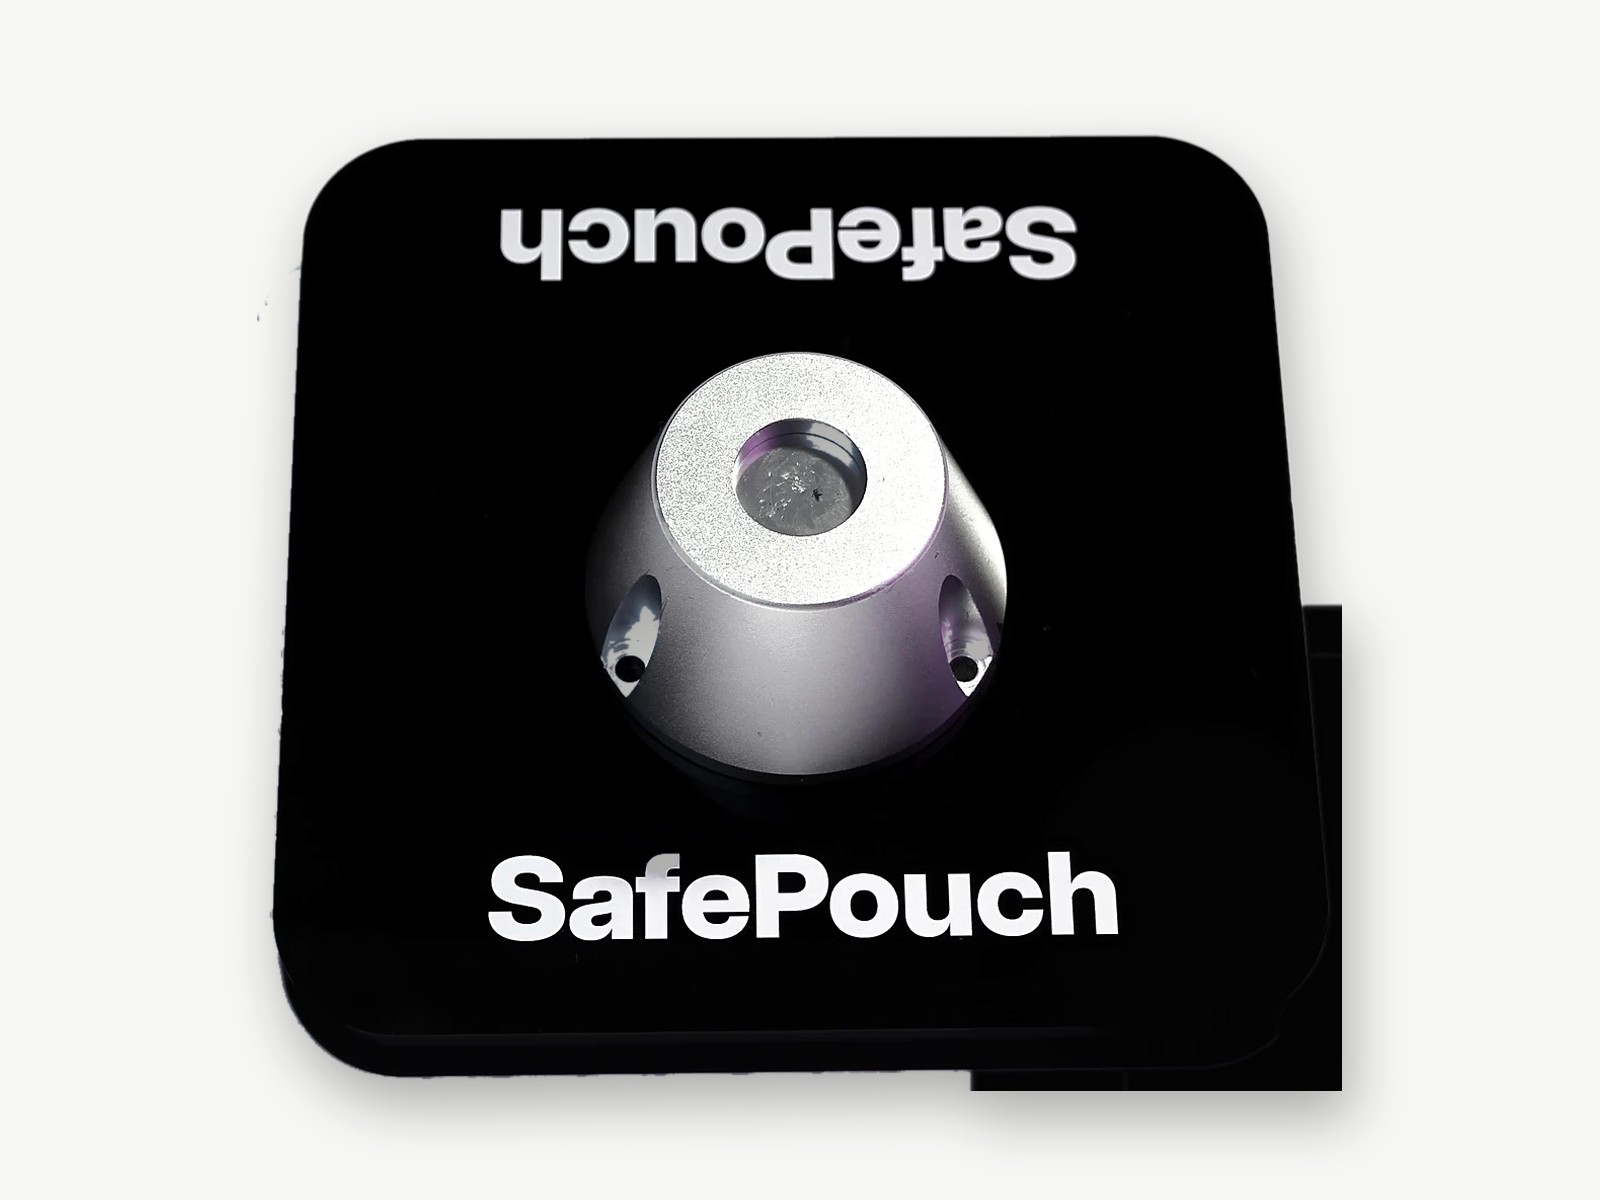
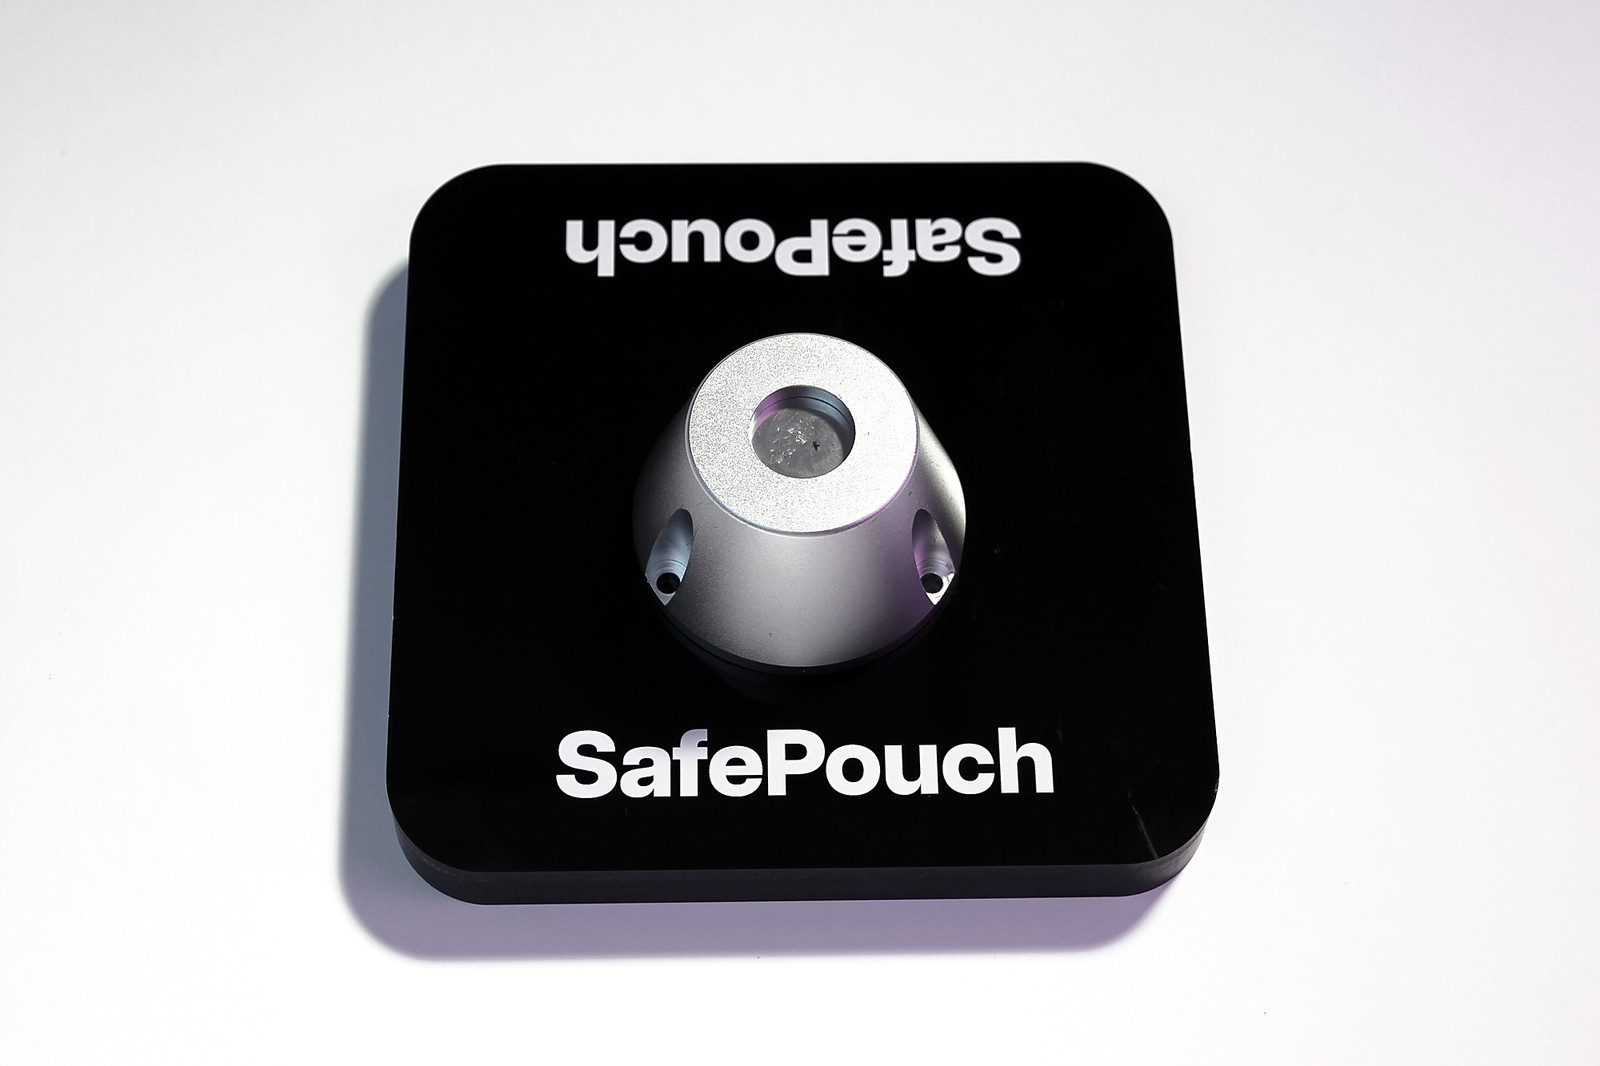
Opens on the base: use the raw studio base photo as-is
Drop in unlock-base-angled.jpg unedited (resize only, no cutout/compositing);
frame set to 3:2 so the full photo shows with no cropping.

diff --git a/index.html b/index.html
@@ -813,7 +813,7 @@
 
       <!-- Feature: opens on the base -->
       <div class="reveal mt-16 md:mt-24 grid lg:grid-cols-2 gap-8 lg:gap-12 items-center">
-        <div class="product-shot aspect-[4/3]">
+        <div class="product-shot aspect-[3/2]">
           <img src="images/base-framed.jpg" alt="The SafePouch magnetic unlock base" loading="lazy" decoding="async" />
         </div>
         <div>